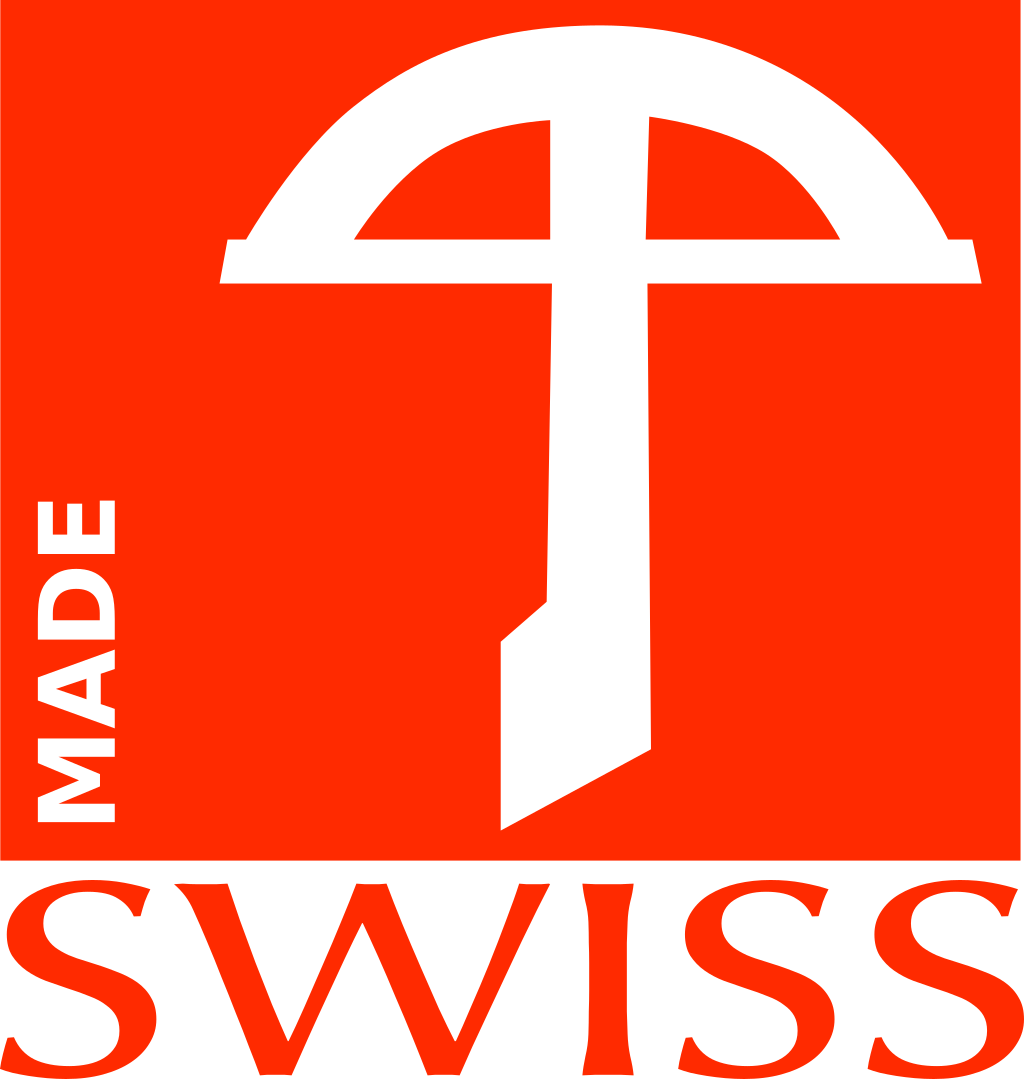
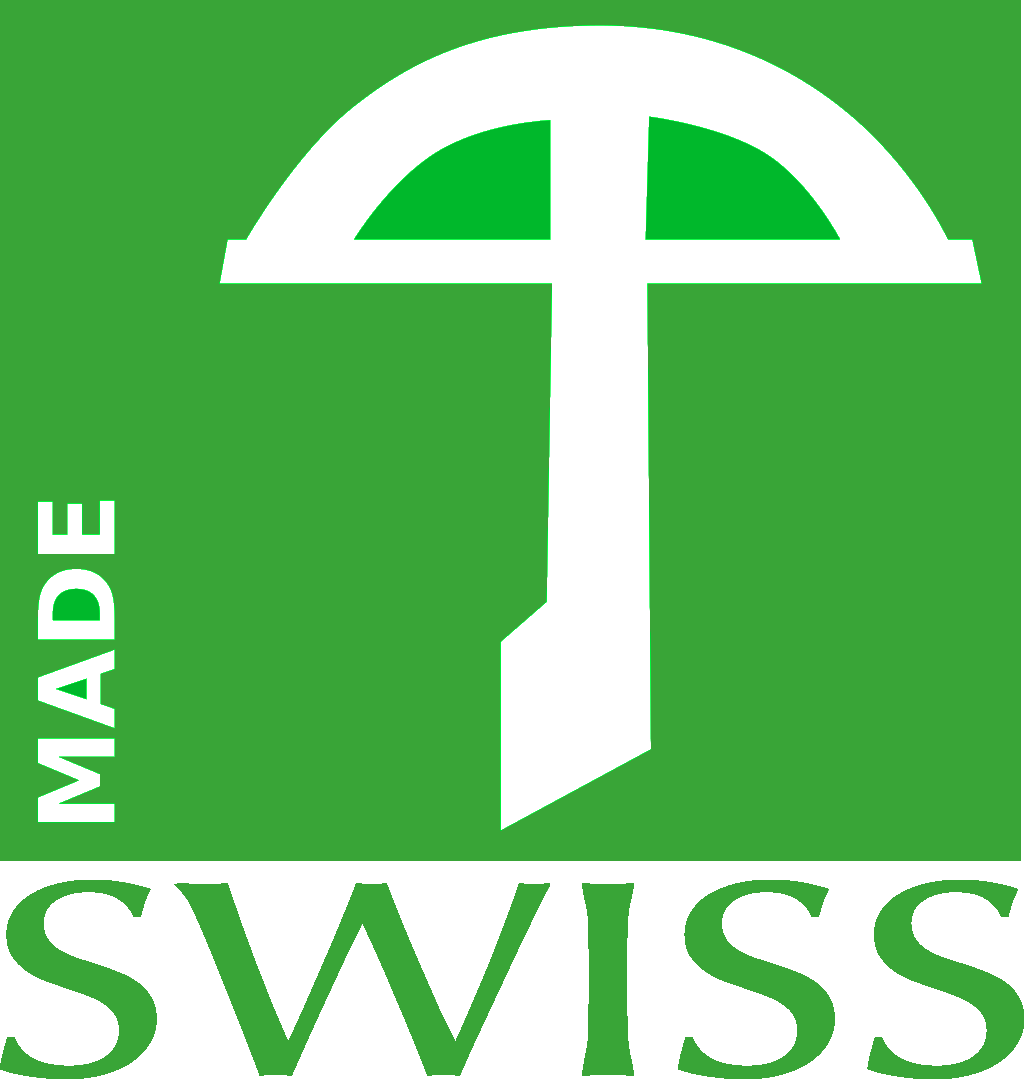
Neues Layout (grün)

diff --git a/site/layout/css/artikel.css b/site/layout/css/artikel.css
@@ -66,7 +66,7 @@ div.tourHeader {
 	border          : var(--default-foreground) 1px solid;
 	padding         : 4px          ;
 	border-radius   : 4px          ;
-	background-color: #f00;
+	background-color: var(--default-foreground);
 	color           : white        ;
 }
 
@@ -75,7 +75,7 @@ div.tourHeader {
   margin          : 0     ;
   padding         : 0     ;
   overflow        : hidden;
-  background-color: #F00;
+  background-color: var(--default-foreground);
 }
 
 .tourHeader ul li {
@@ -91,10 +91,9 @@ div.tourHeader {
   padding         : 14px 16px;
   text-decoration : none;
 	text-decoration : none      ;
-	color           : var(--default-foreground)       ;
 	font-variant    : small-caps;
 	font-weight     : bold      ;
-  background-color: #f00;
+  background-color: var(--default-foreground);
 	color           : var(--default-background);
 
 }
@@ -105,6 +104,14 @@ div.tourHeader {
 	color           : var(--default-background);
 }
 
+div.forfor a img , div.backback a img {
+	width : 50px;
+	height: 50px;
+}
+
+div.backback {
+	text-align: left;
+}
 
 /* A link which is disabled, because
  * the user is already on thay page
@@ -129,4 +136,10 @@ div.tourHeader {
 		clear: both;
 		width: 100%;
 	}
+	div.forfor {
+		position: absolute;
+		right: 5px;
+	}
 }
+
+

diff --git a/site/layout/css/style.css b/site/layout/css/style.css
@@ -7,11 +7,12 @@
  * Thanks Nathan for the tip
  */
 :root {
-	--default-foreground: #f20;
-	--default-background: #eee;
-	--default-textcolor : #211;
-	--exponat-background: #210;
-	--exponat-foreground-text: #b86;
+	--default-foreground     : #39a537;
+	--default-background     : #efe   ;
+	--middle-background      : #bfb   ;
+	--default-textcolor      : #121   ;
+	--exponat-background     : #120   ;
+	--exponat-foreground-text: #8b6   ;
 }
 
 
@@ -45,10 +46,10 @@ div.tourStartButton {
 }
 a.tourStartButton {
 	text-decoration:none;
-	background-color: var(--default-background);
+	background-color: var(--middle-background);
 	color: var(--default-foreground);
 	font-size: 200%;
 	padding: 15px;
 	border-radius: 4px;
-	border: 1px solid red;
+	border: 1px solid var(--default-foreground);
 }

diff --git a/site/layout/css/erfindung.css b/site/layout/css/erfindung.css
@@ -20,7 +20,6 @@
 	flex-direction  : row          ; /* default value; can be omitted */
 	flex-wrap       : nowrap       ; /* default value; can be omitted */
 	justify-content : space-between; /* switched from default (flex-start, see below) */
-
 	color           : var(--default-foreground)         ;
 	background-color: var(--default-background)         ;
 	text-align      : center       ;
@@ -110,8 +109,6 @@ div.small_image_rahmen {
 	}
 	
 }
-
-
 
 div.erfindungsBilder{
 /*	clear     :   both; */

diff --git a/site/layout/erfindung_layout.php b/site/layout/erfindung_layout.php
@@ -21,13 +21,15 @@ $erfindung = $daoErfindung->getErfindungsObjekt(getErfindungsID(), $_SESSION['ka
 function prevLink() {
 	global $_SESSION;
 //	echo $_SESSION['kategorie_id'];
+	$first = SQL::getErsteErfindungUrlInKategorie($_SESSION['kategorie_id']);
 	$vorg =  SQL::getVorgaenger(getErfindungsID(), $_SESSION['kategorie_id']);
 
 	if(! isset($vorg) || strlen($vorg) < 1) {
 		return "";
 	}
-	$link = "<a href='./" . $vorg . "'><img src='../layout/img/back.png' alt='Pfeil nach links' title='vorganger'/></a>";
-	return $link;
+	$linkFirst = "<a href='./" . $first . "'><img src='../layout/img/first.png'    alt='Doppelpfeil nach links' title='Erste Erfindung dieser Kategorie'/></a>";
+	$linkNext  = "<a href='./" . $vorg  . "'><img src='../layout/img/previous.png' alt='Pfeil nach links'       title='Vorgänger'/></a>";
+	return $linkFirst . $linkNext;
 }
 
 function nextLink() {
@@ -38,7 +40,7 @@ function nextLink() {
 	if(! isset($nachf) || strlen($nachf) < 1) {
 		return "";
 	}
-	$link = "<a href='./" . $nachf . "'><img src='../layout/img/for.png' alt='Pfeil nach rechts' title='Nachfolger'/></a>";
+	$link = "<a href='./" . $nachf . "'><img src='../layout/img/next.png' alt='Pfeil nach rechts' title='Nachfolger'/></a>";
 	return $link;
 }
 

diff --git a/site/layout/exponatTable.php b/site/layout/exponatTable.php
@@ -22,13 +22,13 @@ function printAlleExponatBilder($exponat) {
 
 function createExponatTableRow($exponat) {
 	echo "<tr class='exponatTabelle'>\n";
-	echo "<td>" . $exponat->Modellbezeichnung . "</td>\n";
-	echo "<td>" . $exponat->Jahr              . "</td>\n";
-	echo "<td>" . $exponat->inventarNummer    . "</td>\n";
+	echo "<td>" . $exponat->Modellbezeichnung . "<br/>\n";
+	echo "(" . $exponat->Jahr              . ")</td>\n";
+	echo "<td>" . $exponat->inventarNummer    . "<br />\n";
 	if(0 != $exponat->ausgestellt) {
-			echo "<td>Ja</td>\n";
+			echo "(Ja)</td>\n";
 	} else {
-			echo "<td> - </td>\n";
+			echo "  </td>\n";
 	}
 	echo "<td>";
 	printAlleExponatBilder($exponat);
@@ -51,7 +51,7 @@ function createExponatTableRows() {
 	<table>
 	<tr class='exponatListeTitel'><td colspan='5'><h1 class='exponatListeTitel'>Exponate im «SMOCH»</h1>
 </td></tr>
-	<tr class='erfindungsExponat'><td>Modell</td><td>Jahr</td><td>Inventar Nr.</td><td>Ausgestellt?</td><td>Bilder</td></tr>
+	<tr class='erfindungsExponat'><td>Modell<br />(Jahr)</td><td>Inventar Nr.<br />(Ausgestellt)</td><td>Bilder</td></tr>
 <?php createExponatTableRows(); ?>
 	</table>
 </div>
